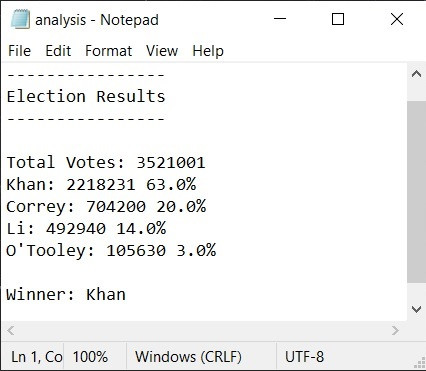
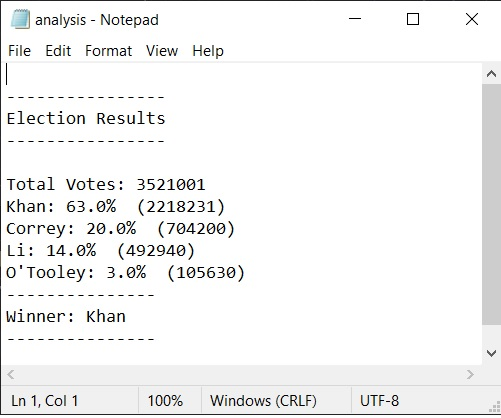
Update PyPoll output format and img file

diff --git a/PyPoll/main.py b/PyPoll/main.py
@@ -58,11 +58,11 @@ with open(csvpath) as csvfile:
     #Loop though election dictionary to calculate vote spread
     for key, value in election.items(): 
             pctTot =round((value / totVote) *100, 2)
-            print(f'{key}: {value} {pctTot}%')
+            print(f'{key}: {pctTot}%  ({value})')
 
     #Calculate & Print Winner of Election 
     winner = max(election, key=election.get) 
-    print(f'\nWinner: {winner}')
+    print(f'---------------\nWinner: {winner}\n---------------')
 
     #Write results to txt file using sys dependancy 
     txtpath = os.path.join('analysis', 'analysis.txt')
@@ -75,9 +75,9 @@ with open(csvpath) as csvfile:
         print(f'Total Votes: {totVote}', file=txtfile)
         for key, value in election.items():
             pctTot =round((value / totVote) *100, 2) 
-            print(f'{key}: {value} {pctTot}%', file=txtfile)
+            print(f'{key}: {pctTot}%  ({value})', file=txtfile)
 
-        print(f'\nWinner: {winner}', file=txtfile)
+        print(f'---------------\nWinner: {winner}\n---------------', file=txtfile)
 
     txtfile.close()
 
